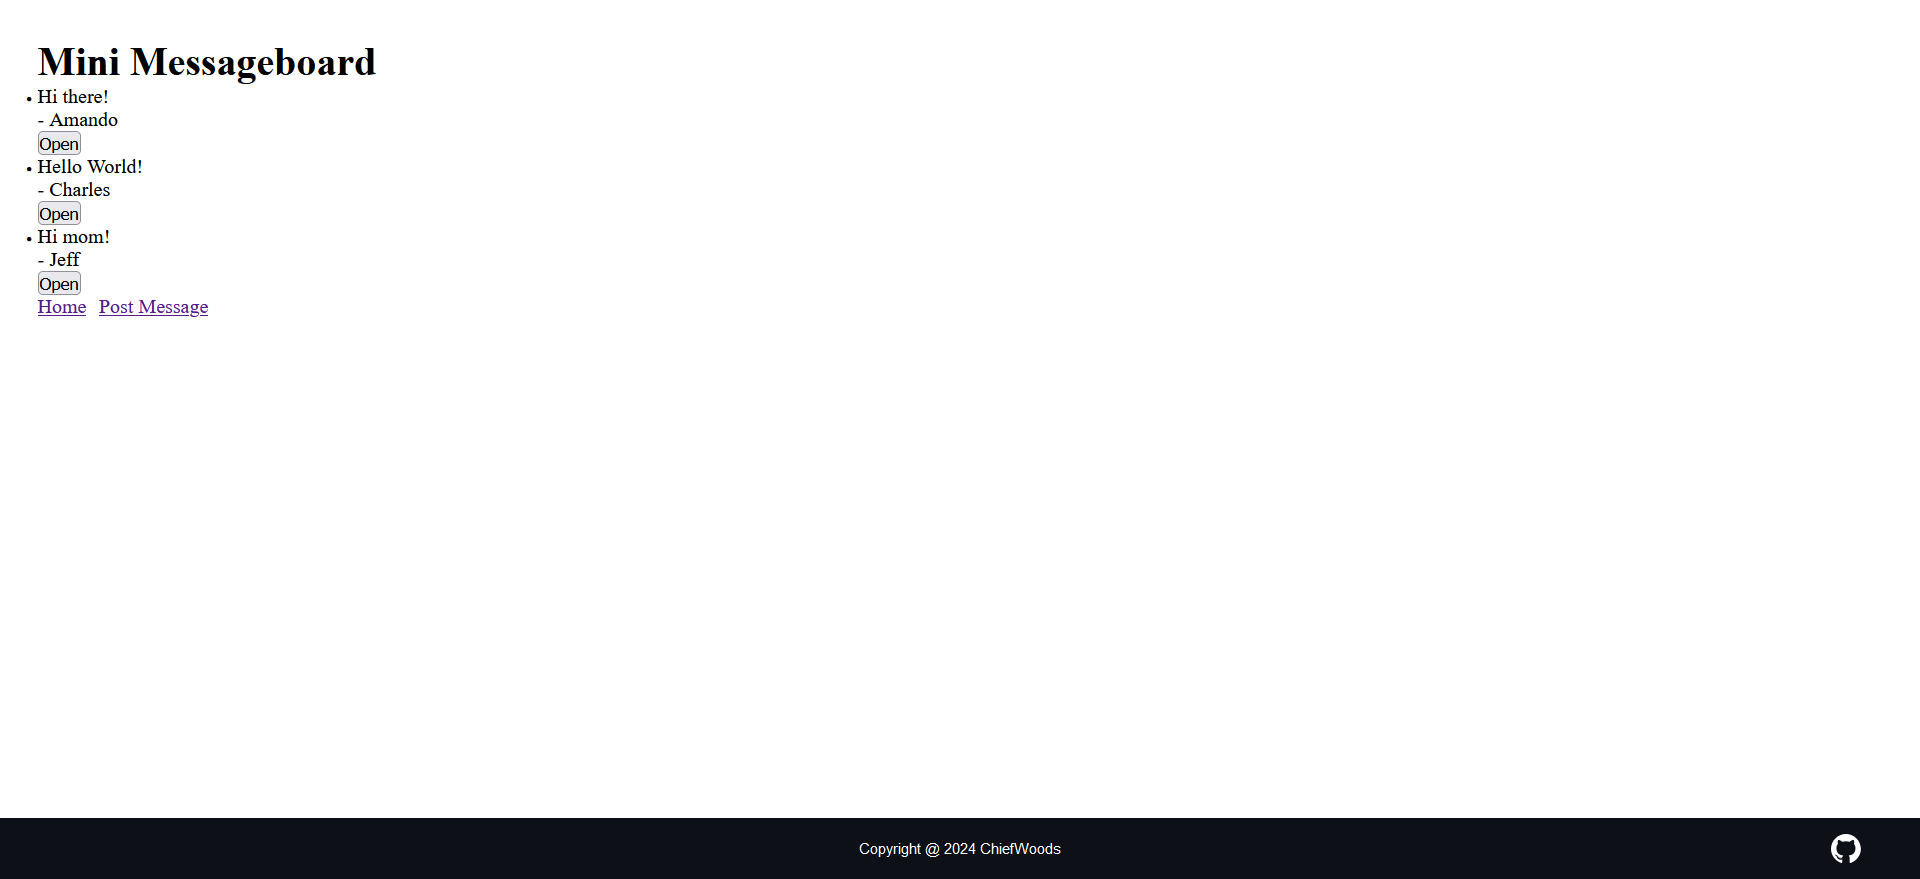
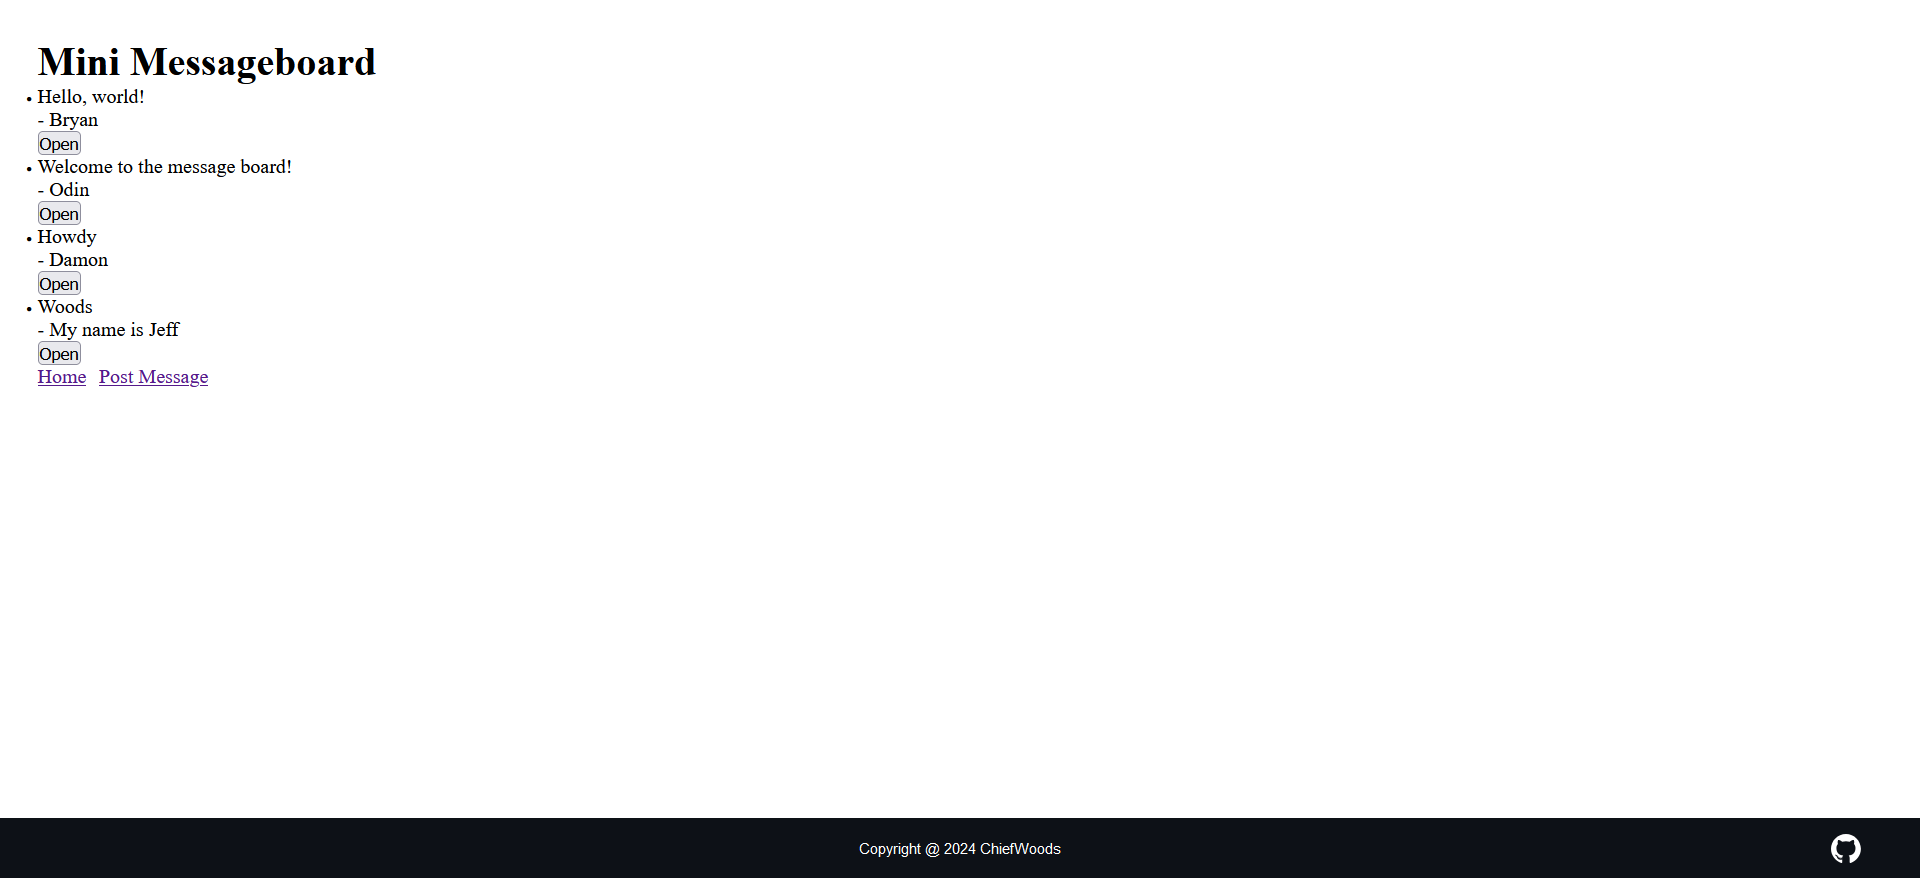
Add database

diff --git a/app.js b/app.js
@@ -1,4 +1,5 @@
 import express, { Router } from 'express';
+import { addMessage, getAllMessages, getMessage } from './db/queries';
 
 const app = express();
 const port = 8080;
@@ -14,35 +15,24 @@ const links = [
   { href: "/new", text: "Post Message" },
 ];
 
-const messages = [
-  {
-    text: "Hi there!",
-    user: "Amando",
-    added: new Date()
-  },
-  {
-    text: "Hello World!",
-    user: "Charles",
-    added: new Date()
-  }
-];
-
-app.get("/", (req, res) => {
+app.get("/", async (req, res) => {
+  const messages = await getAllMessages();
   res.render("index", { links, title: "Mini Messageboard", messages });
 });
 
-app.get("/message/:id", (req, res) => {
+app.get("/message/:id", async (req, res) => {
   const { id } = req.params;
-  res.render("message", { links, title: "View Message", message: messages[id] });
+  const message = await getMessage(id);
+  res.render("message", { links, title: "View Message", message });
 });
 
 router.get("/", (req, res) => {
   res.render("form", { links, title: "New Message" });
 });
 
-router.post("/", (req, res) => {
+router.post("/", async (req, res) => {
   const { messageUser, messageText } = req.body;
-  messages.push({ text: messageText, user: messageUser, added: new Date() });
+  await addMessage(messageUser, messageText);
   res.redirect("/")
 });
 

diff --git a/db/populate.ts b/db/populate.ts
@@ -1,0 +1,29 @@
+import { Client } from 'pg';
+
+const SQL = `
+CREATE TABLE IF NOT EXISTS messages (
+  id INTEGER PRIMARY KEY GENERATED ALWAYS AS IDENTITY,
+  text TEXT NOT NULL,
+  "user" TEXT NOT NULL,
+  added TIMESTAMP DEFAULT CURRENT_TIMESTAMP
+);
+
+INSERT INTO messages (text, "user", added) 
+VALUES
+  ('Hello, world!', 'Bryan', DEFAULT), 
+  ('Welcome to the message board!', 'Odin', DEFAULT),
+  ('Howdy', 'Damon', DEFAULT);
+`;
+
+async function main() {
+  console.log("Seeding...");
+  const client = new Client({
+    connectionString: process.env.DB_CONNECTION_URI,
+  });
+  await client.connect();
+  await client.query(SQL);
+  await client.end();
+  console.log("Done!");
+}
+
+main();

diff --git a/db/queries.ts b/db/queries.ts
@@ -1,0 +1,15 @@
+import pool from './pool';
+
+export async function getAllMessages() {
+  const { rows } = await pool.query('SELECT * FROM messages');
+  return rows;
+}
+
+export async function getMessage(id: number) {
+  const { rows } = await pool.query('SELECT * FROM messages WHERE id = $1', [id]);
+  return rows[0];
+}
+
+export async function addMessage(text: string, user: string) {
+  await pool.query('INSERT INTO messages (text, "user", added) VALUES ($1, $2, DEFAULT)', [text, user]);
+}

diff --git a/db/pool.ts b/db/pool.ts
@@ -1,0 +1,5 @@
+import { Pool } from "pg";
+
+export default new Pool({
+  connectionString: process.env.DB_CONNECTION_URI,
+});

diff --git a/README.md b/README.md
@@ -16,6 +16,7 @@ Message board for [The Odin Project](https://www.theodinproject.com/).
 - [![CSS3](https://img.shields.io/badge/CSS3-white?style=for-the-badge&logo=css3&logoColor=306AF1)](https://www.w3.org/Style/CSS/Overview.en.html)
 - [![JavaScript](https://img.shields.io/badge/Javascript-383936?style=for-the-badge&logo=javascript)](https://js.org/index.html)
 - [![EJS](https://img.shields.io/badge/EJS-a91e50?style=for-the-badge&logo=ejs)](https://ejs.co/)
+- [![PostgreSQL](https://img.shields.io/badge/PostgreSQL-212121?style=for-the-badge&logo=postgresql)](https://www.postgresql.org/)
 
 ### Packages
 
@@ -25,14 +26,19 @@ Message board for [The Odin Project](https://www.theodinproject.com/).
 
 - [![Bun](https://img.shields.io/badge/Bun-000?style=for-the-badge&logo=bun)](https://bun.sh/)
 
+### Database
+
+- [![Supabase](https://img.shields.io/badge/Supabase-1c1c1c?style=for-the-badge&logo=supabase)](https://supabase.com/)
+
 ## Getting Started
 
 ### Prerequisites
 
-Update your Bun toolkit to the latest version.
+Update your Bun toolkit and PostgreSQL to the latest version.
 
 ```bash
 bun upgrade
+sudo apt install -y postgresql-client
 ```
 
 ### Setup
@@ -43,13 +49,25 @@ bun upgrade
 git clone https://github.com/ChiefWoods/mini-message-board.git
 ```
 
-2. Install all dependencies
+2. Start PostgreSQL
+
+```bash
+sudo systemctl start postgresql.service 
+```
+
+3. In another terminal, install all dependencies
 
 ```bash
 bun install
 ```
 
-3. Start server
+4. Set .env variables
+
+```bash
+DB_CONNECTION_URI=
+```
+
+4. Start server
 
 ```bash
 bun run start
